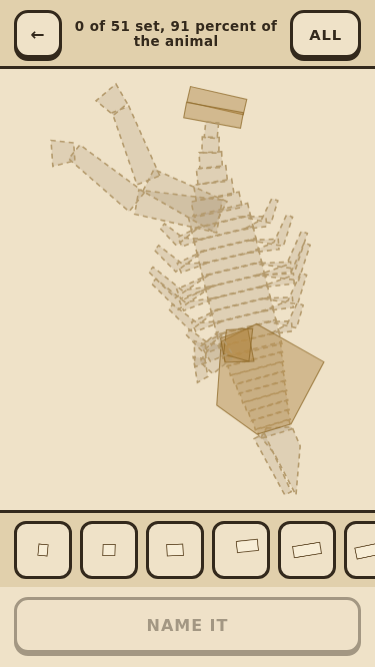
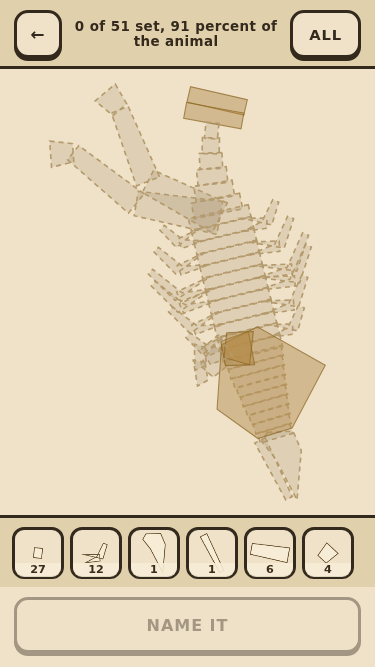
Strata: the crate is one tile per kind, so it fits on the bench
Director call 15, the less invasive of the two options. Fifty one bones in one
scrolling row shows six at a time, so ALL was the only sensible way to use it and
the drag was a decoration, which is what he said. It is six tiles now, vertebra
27, rib 12, skull 1, jaw 1, leg 6, arm 4, the whole crate in one look, 342 px of
a 375 screen, and every tile still a 52 px target.

Every tile keeps data-bone pointing at the next unplaced bone of its kind, so
every tap, drag and gate that already knew how to work a tray goes on working
without knowing the tray changed.

refreshMount relabelled the tray instead of repainting it, marking each tile
spent by the bone id written on it. That was right when a tile was a bone; with
a tile as a kind it greyed out twenty six vertebrae that were still in the
crate. The gate caught it in the note it prints: vertebra:27 (spent).

And 58 px tiles with an 8 px gap put the sixth kind half off a 375 screen, which
is the same scroll-to-see-your-own-crate the grouping was for.

Two of my own assertions had an escape that let a missing tile count as a pass,
and a missing tile was exactly the fault. Two more counts went red over a working
game: the mount gate walked bone ids and threw "no tile for bone 27" at the first
rib that was not the first rib, and the layout gate wanted more than ten tiles.

20260907c, eight gates green, the portal repinned.

Claude-Session: https://claude.ai/code/session_01Dr7wAMZhWkiBsHR6MYAk3B

diff --git a/satellites/strata/index.html b/satellites/strata/index.html
@@ -9,9 +9,9 @@
 <meta name="apple-mobile-web-app-capable" content="yes">
 <meta name="apple-mobile-web-app-status-bar-style" content="black-translucent">
 <meta name="apple-mobile-web-app-title" content="STRATA">
-<link rel="manifest" href="./manifest.webmanifest?v=20260907b">
-<link rel="apple-touch-icon" href="./icon-192.png?v=20260907b">
-<link rel="icon" href="./icon-192.png?v=20260907b">
+<link rel="manifest" href="./manifest.webmanifest?v=20260907c">
+<link rel="apple-touch-icon" href="./icon-192.png?v=20260907c">
+<link rel="icon" href="./icon-192.png?v=20260907c">
 <link rel="canonical" href="https://lucidwinds.com/satellites/strata/">
 <style>
 /*  STRATA
@@ -186,12 +186,25 @@ input[type=text]{width:100%;min-height:48px;border:3px solid var(--ink);border-r
 #mountBar .btn,#hallBar .btn{position:static}
 #mountCount,#hallCount{flex:1;font-size:.84rem;font-weight:700;letter-spacing:.03em;text-align:center}
 #mountCv{flex:1 1 auto;width:100%;min-height:0;display:block;touch-action:none;background:var(--paper)}
-#boneTray{display:flex;gap:8px;align-items:center;overflow-x:auto;overflow-y:hidden;width:100%;
-  padding:8px 14px;border-top:3px solid var(--ink);background:var(--paper2);min-height:76px}
-.btile{flex:0 0 auto;width:58px;height:58px;border:3px solid var(--ink);border-radius:12px;
-  background:var(--paper);padding:0;font-family:inherit}
+#boneTray{display:flex;gap:6px;align-items:center;overflow-x:auto;overflow-y:hidden;width:100%;
+  padding:8px 12px;border-top:3px solid var(--ink);background:var(--paper2);min-height:72px}
+/* ⛔ THE TRAY IS ONE TILE PER KIND OF BONE, not one per bone. Fifty bones in a
+   single scrolling row shows six at a time, so the ALL button was the only
+   sensible way to use it and the drag was a decoration (Director call 15). A
+   ribs tile with eighteen on it is one thing a thumb can find; eighteen ribs
+   spread across three screens of scrolling is a filing cabinet. */
+/* ⛔ SIX TILES HAVE TO FIT A PHONE, or grouping them bought nothing. At 58 px
+   with an 8 px gap the sixth kind was half off the right edge of a 375 screen,
+   which is the same "you must scroll to see your own crate" the grouping was for.
+   52 and 6 puts six kinds inside 342 px and the whole crate is one look. Still a
+   48 px target by a wide margin. */
+.btile{flex:0 0 auto;width:52px;height:52px;border:3px solid var(--ink);border-radius:12px;
+  background:var(--paper);padding:0;font-family:inherit;position:relative}
 .btile canvas{width:100%;height:100%;display:block;border-radius:9px}
 .btile.gone{opacity:.28}
+.btile .bn{position:absolute;left:0;right:0;bottom:-1px;font-size:.7rem;font-weight:700;
+  color:#3A2B1B;background:rgba(247,237,214,.88);border-radius:0 0 9px 9px;line-height:1.25;
+  pointer-events:none}
 #btnKeepIt{position:static;margin:10px 14px calc(14px + var(--safeB));width:calc(100% - 28px);max-width:360px}
 /* ---- the hall: a ROOM. A row of plinths on a brown field is a warehouse;
    a wall, a floor and a rail make it somewhere somebody would walk. ---- */
@@ -220,7 +233,7 @@ input[type=text]{width:100%;min-height:48px;border:3px solid var(--ink);border-r
 #hallEmpty[hidden]{display:none}
 @media (prefers-reduced-motion:reduce){*{transition-duration:1ms!important}}
 </style>
-<script src="/music-unlocks.js?v=20260907b" defer></script>
+<script src="/music-unlocks.js?v=20260907c" defer></script>
 </head>
 <body>
 <h1 style="position:absolute;width:1px;height:1px;margin:-1px;padding:0;overflow:hidden;clip:rect(0 0 0 0);clip-path:inset(50%);white-space:nowrap;border:0">STRATA</h1>
@@ -1554,7 +1567,7 @@ function conditionWord(outN, cracked, total) {
 
 
 /* ========================= 16. THE GAME'S STATE ========================= */
-var STAMP = '20260907b';
+var STAMP = '20260907c';
 var REDUCED = false;
 var G = {
   screen: 'Title', mode: 'dig',
@@ -3074,21 +3087,37 @@ function drawMount() {
     c.restore();
   }
 }
+/* ⛔ ONE TILE PER KIND, and the tile still carries `data-bone` for the NEXT
+   unplaced bone of that kind, so every tap, drag and gate that already knew how
+   to work a tray goes on working without knowing the tray changed. */
 function paintTray() {
   var tray = el('boneTray');
   tray.innerHTML = '';
-  var bs = MOUNT.spec.bones, i;
+  var bs = MOUNT.spec.bones, i, order = [], byKind = {};
   for (i = 0; i < bs.length; i++) {
     if (!bs[i].out) continue;
-    tray.appendChild(boneTile(bs[i]));
+    var k = bs[i].kind;
+    if (!byKind[k]) { byKind[k] = { left: [], all: [] }; order.push(k); }
+    byKind[k].all.push(bs[i]);
+    if (!MOUNT.placed[bs[i].id]) byKind[k].left.push(bs[i]);
+  }
+  for (i = 0; i < order.length; i++) {
+    var g = byKind[order[i]];
+    /* a kind with nothing left keeps its place, spent, so the tray does not
+       shuffle under a thumb that is halfway through it */
+    tray.appendChild(boneTile(g.left.length ? g.left[0] : g.all[g.all.length - 1],
+      g.left.length, order[i]));
   }
 }
-function boneTile(bn) {
+function boneTile(bn, left, kind) {
   var b = document.createElement('button');
-  b.className = 'btile' + (MOUNT.placed[bn.id] ? ' gone' : '');
+  var spent = left === undefined ? MOUNT.placed[bn.id] : left === 0;
+  b.className = 'btile' + (spent ? ' gone' : '');
   b.type = 'button';
   b.setAttribute('data-bone', bn.id);
-  b.setAttribute('aria-label', bn.kind);
+  b.setAttribute('data-kind', kind || bn.kind);
+  b.setAttribute('aria-label', left === undefined ? bn.kind
+    : (left + ' ' + (kind || bn.kind) + (left === 1 ? '' : 's') + ' left'));
   var cv = document.createElement('canvas');
   cv.width = 108; cv.height = 108;
   b.appendChild(cv);
@@ -3121,6 +3150,12 @@ function boneTile(bn) {
   c.strokeStyle = '#6B5433';
   c.lineWidth = 1;
   c.stroke();
+  if (left !== undefined) {
+    var tag = document.createElement('span');
+    tag.className = 'bn';
+    tag.textContent = String(left);
+    b.appendChild(tag);
+  }
   return b;
 }
 function placeBone(id) {
@@ -3139,10 +3174,13 @@ function refreshMount() {
   el('mountCount').textContent = done + ' of ' + out + ' set, ' + (st.fraction * 100).toFixed(0)
     + ' percent of the animal';
   el('btnKeepIt').disabled = !(done === out && out > 0);
-  var tiles = document.querySelectorAll('#boneTray .btile'), k;
-  for (k = 0; k < tiles.length; k++) {
-    tiles[k].classList.toggle('gone', !!MOUNT.placed[parseInt(tiles[k].getAttribute('data-bone'), 10)]);
-  }
+  /* ⛔ THE TRAY IS REPAINTED, NOT RELABELLED. This used to toggle each tile
+     'gone' by the bone id written on it, which was right when a tile WAS a bone.
+     Since the crate groups by kind (Director call 15) a tile is a kind, and
+     marking it spent because the one bone it happens to be offering has been
+     placed grey out twenty six vertebrae that are still in the crate. The gate
+     caught it saying "vertebra:27 (spent)". */
+  paintTray();
 }
 function mountLocal(e) {
   var r = MOUNT.cv.getBoundingClientRect();

diff --git a/portal/index.html b/portal/index.html
@@ -1046,7 +1046,7 @@ var FEATURED = [
   {nm:"Windup", ds:"Punch holes in a paper strip, turn the crank yourself, and hear your song plink out of a little brass music box. Wrap it up and send it to someone.", cat:"creative", url:"/satellites/windup/?v=20260907c", ic:"🎁", thumb:"/portal-assets/thumbs/windup.png?v=20260907c", beta:true, fresh:true},
   {nm:"Inkswing", ds:"Grab a brass pendulum and throw it. A pen underneath draws the swing as it slowly dies, and the lengths you set hum the chord your drawing is made of. Keep the ones you love.", cat:"creative", url:"/satellites/inkswing/?v=20260907c", ic:"🖋", thumb:"/portal-assets/thumbs/inkswing.png?v=20260907c", beta:true, fresh:true},
   {nm:"Whistlestop", ds:"Snap a wooden train set together on the rug, pull the whistle, and then work the switches so three little trains all get home without meeting nose to nose.", cat:"puzzle", url:"/satellites/whistlestop/?v=20260907c", ic:"🚂", thumb:"/portal-assets/thumbs/whistlestop.png?v=20260907c", beta:true, fresh:true},
-  {nm:"Strata", ds:"Brush and chisel a cliff face until a creature nobody has ever seen comes out of the stone. Every skeleton is generated once. Mount it, name it, and hang it in a museum that is only yours.", cat:"creative", url:"/satellites/strata/?v=20260907b", ic:"🦴", thumb:"/portal-assets/thumbs/strata.png?v=20260907b", beta:true, fresh:true},
+  {nm:"Strata", ds:"Brush and chisel a cliff face until a creature nobody has ever seen comes out of the stone. Every skeleton is generated once. Mount it, name it, and hang it in a museum that is only yours.", cat:"creative", url:"/satellites/strata/?v=20260907c", ic:"🦴", thumb:"/portal-assets/thumbs/strata.png?v=20260907c", beta:true, fresh:true},
   {nm:"Gerplunk", ds:"A lake at golden hour, a stone in your hand, and one flick. Angle, speed and spin decide the skips. Count them by ear and chase the record with no clock anywhere.", cat:"action", url:"/satellites/gerplunk/?v=20260907e", ic:"🪨", thumb:"/portal-assets/thumbs/gerplunk.png?v=20260907e", beta:true, fresh:true},
   {nm:"Updraft", ds:"Go fly a kite. Hold to reel in, let go to give it line, slide to lean. Loops, dives and saves come from your thumb, the tail cracks like a ribbon, and an oak named Mabel is waiting to snag you.", cat:"action", url:"/satellites/updraft/?v=20260907c", ic:"🪁", thumb:"/portal-assets/thumbs/updraft.png?v=20260907c", beta:true, fresh:true},
   {nm:"Aura Off", ds:"A gesture duel in a public square. No words, no contact. Reference everything, repeat nothing, and never look like you are trying.", cat:"action", url:"/satellites/aura-off/?v=20260829b", ic:"🥊", thumb:"/portal-assets/thumbs/aura-off.png", beta:true, fresh:true},

diff --git a/satellites/strata/sw.js b/satellites/strata/sw.js
@@ -12,7 +12,7 @@
    Bump SHELL_VERSION on every deploy, AND the ?v= on the registration in
    index.html in lockstep — this host edge-pins bare sw.js URLs for 7 days. */
 
-const SHELL_VERSION = "strata-shell-20260907b";
+const SHELL_VERSION = "strata-shell-20260907c";
 const SFX_CACHE     = "strata-unused-v1"; // no recorded audio: every sound is synthesised
 const NAV_TIMEOUT_MS = 8000;
 

diff --git a/plans/strata/HANDOFF-STRATA.md b/plans/strata/HANDOFF-STRATA.md
@@ -13,6 +13,26 @@ copy), then this file, then the design. Where they differ, this file wins; every
 
 ## SESSION STATE (the builder updates this at the end of every session; the morning reader starts here)
 
+- 2026-09-07 night, Opus (lead): **THE CRATE IS GROUPED BY KIND (call 15).** Stamp `20260907c`,
+  ALL GATES PASSED, eight of eight. Fifty one bones in one scrolling row showed six at a time, so
+  ALL was the only sensible way to use it and the drag was a decoration, which is exactly what he
+  said. Six tiles now (vertebra 27, rib 12, skull 1, jaw 1, leg 6, arm 4), the whole crate in one
+  look, 342 px of a 375 screen, and every tile still a 52 px target.
+  Every tile keeps `data-bone` on the next unplaced bone of its kind, so every tap, drag and gate
+  that knew how to work a tray still works.
+  ⛔ **`refreshMount` relabelled the tray instead of repainting it**, marking a tile spent by the
+  bone id on it: with a tile as a kind that greyed out twenty six vertebrae still in the crate. The
+  gate caught it in its own note line, `vertebra:27 (spent)`.
+  ⛔ **Two of my assertions had a `!now ||` escape** that let a missing tile pass, and a missing
+  tile was the fault. ⛔ **Two more counts went red over a working game**: the mount gate walked
+  bone ids and threw "no tile for bone 27", and the layout gate wanted more than ten tiles.
+  **Looked at:** `docs/shots/p2-mount.png` twice, the second time after shrinking the tiles.
+  **Queued from the look:** the bone drawn in a tile is pale and, under the one measure rule, a
+  vertebra next to a femur is nearly invisible, so the most numerous kind reads as an empty box
+  with a number on it; and the bench's line reads "0 of 51 set, 91 percent of the animal", which is
+  two numbers about two different things in one sentence.
+  **Next action:** the fifth body plan and the wings are not started.
+
 - 2026-09-07 night, Opus (lead): **THE BRUSH ANSWERS, AND THE MORNING REPORT'S OLDEST PROSE NOW HAS
   A NUMBER.** Stamp `20260907b`, ALL GATES PASSED, eight of eight.
   "The feedback for the first gesture is quiet on a phone in daylight" had been carried as a note

diff --git a/satellites/strata/docs/DECISIONS.md b/satellites/strata/docs/DECISIONS.md
@@ -138,3 +138,23 @@ frame before against the settled one for the rock) it caught the dust but still 
 `scrub` hook that takes a known amount off a known patch read 5.15 against 5.47, because a cell at
 0.68 drops below 0.62 either way. Only when the patch is the rock the clamp actually hid, every
 cell above 0.75, does it separate: **0.00 percent against 20.87.**
+
+**The crate is one tile per KIND of bone.** 2026-09-07, Director call 15, the
+less invasive of the two options he was offered. Fifty one bones in one scrolling row shows six at
+a time, so ALL was the only sensible way to use it and the drag was a decoration, which is what he
+said. It is six tiles now, vertebra 27, rib 12, skull 1, jaw 1, leg 6, arm 4, and a tap or a drag
+takes the next one of that kind.
+**Every tile keeps `data-bone`** pointing at the next unplaced bone of its kind, so every tap, drag
+and gate that already knew how to work a tray goes on working without knowing the tray changed.
+⛔ **`refreshMount` RELABELLED the tray instead of repainting it**, toggling each tile spent by the
+bone id written on it. That was right when a tile was a bone; with a tile as a kind it greyed out
+twenty six vertebrae that were still in the crate. The gate caught it in the note it prints:
+`vertebra:27 (spent)`.
+⛔ **And 58 px tiles with an 8 px gap put the sixth kind half off a 375 screen**, which is the same
+"scroll to see your own crate" the grouping was for. 52 and 6 fits six kinds in 342 px, still a 48
+px target by a wide margin, and there is an assertion that the row does not scroll.
+⛔ **Two of my own assertions had a `!now ||` escape** that let a MISSING tile count as a pass, and
+a missing tile was exactly the fault.
+⛔ **Two more counts went red over a working game**: the mount gate walked a list of bone ids and
+threw "no tile for bone 27" at the first rib that was not the first rib, and the layout gate asked
+for more than ten tiles at five sizes.
